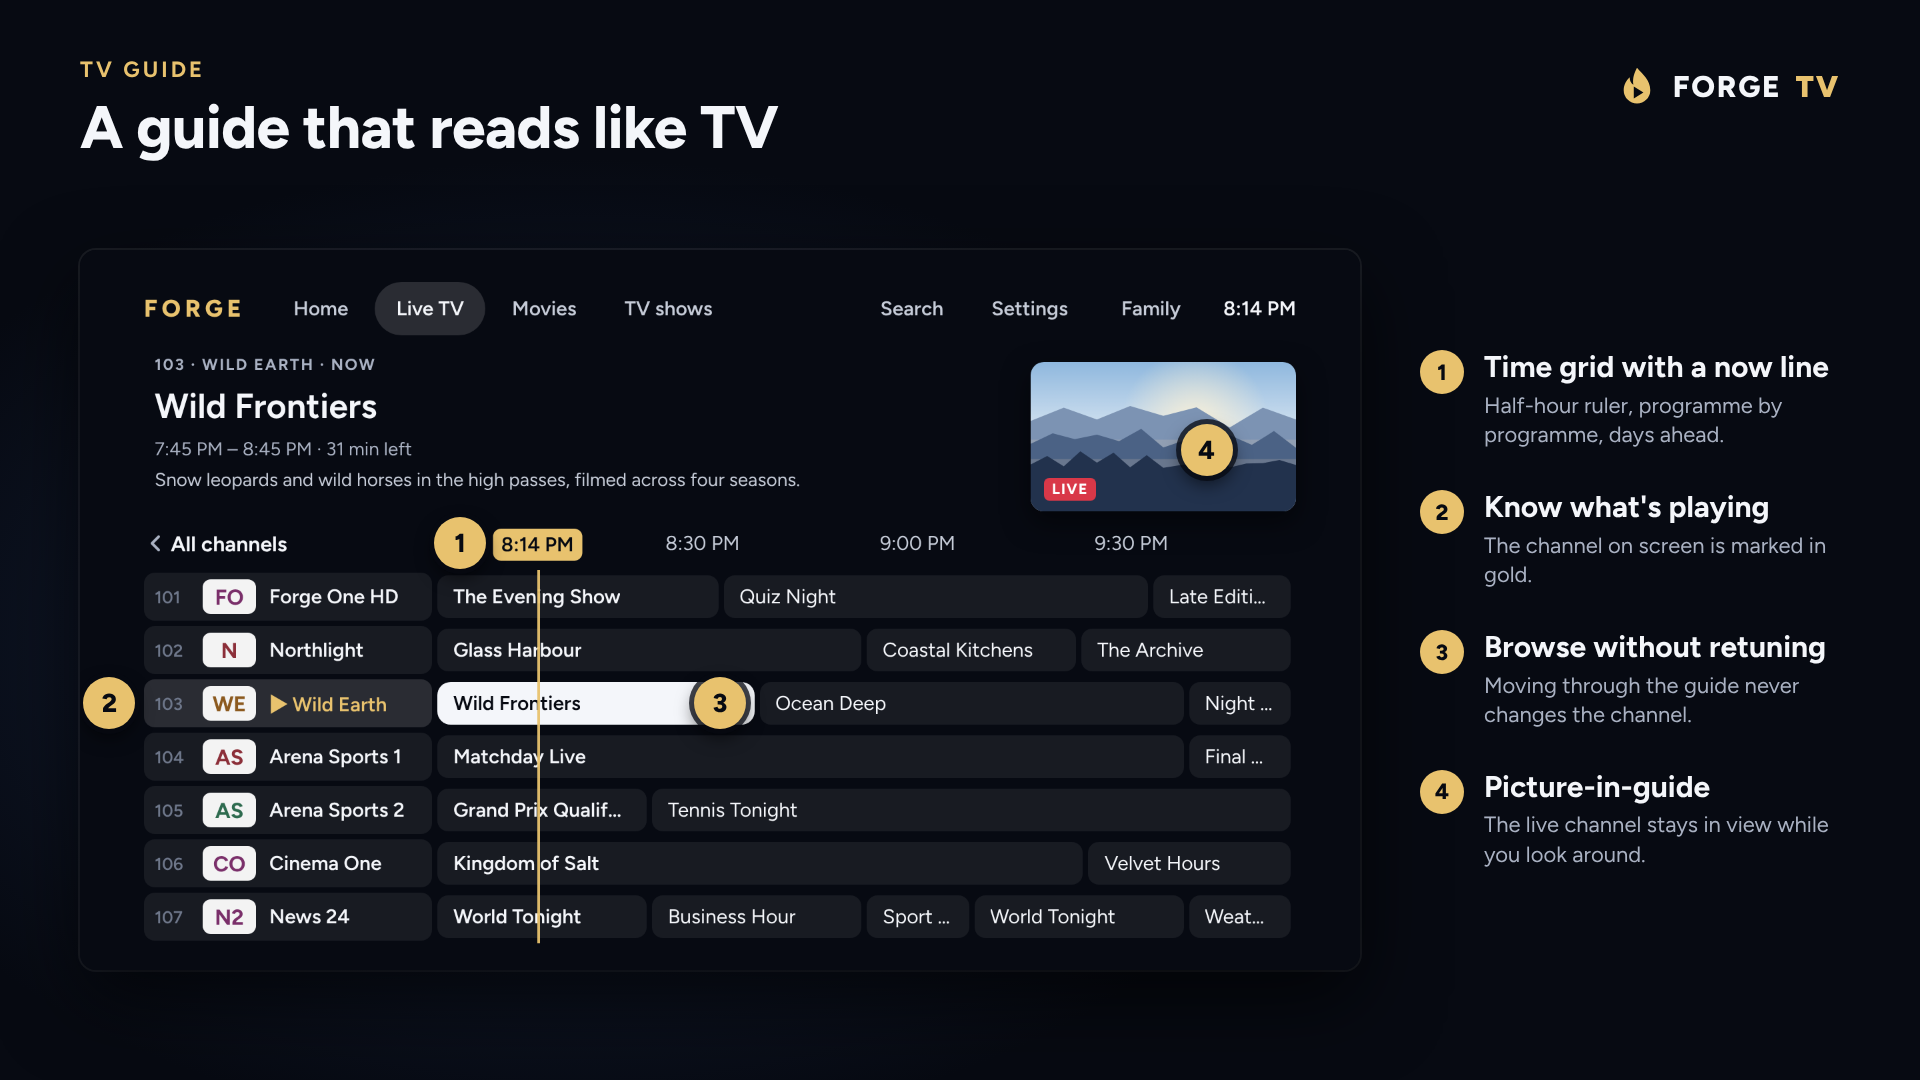
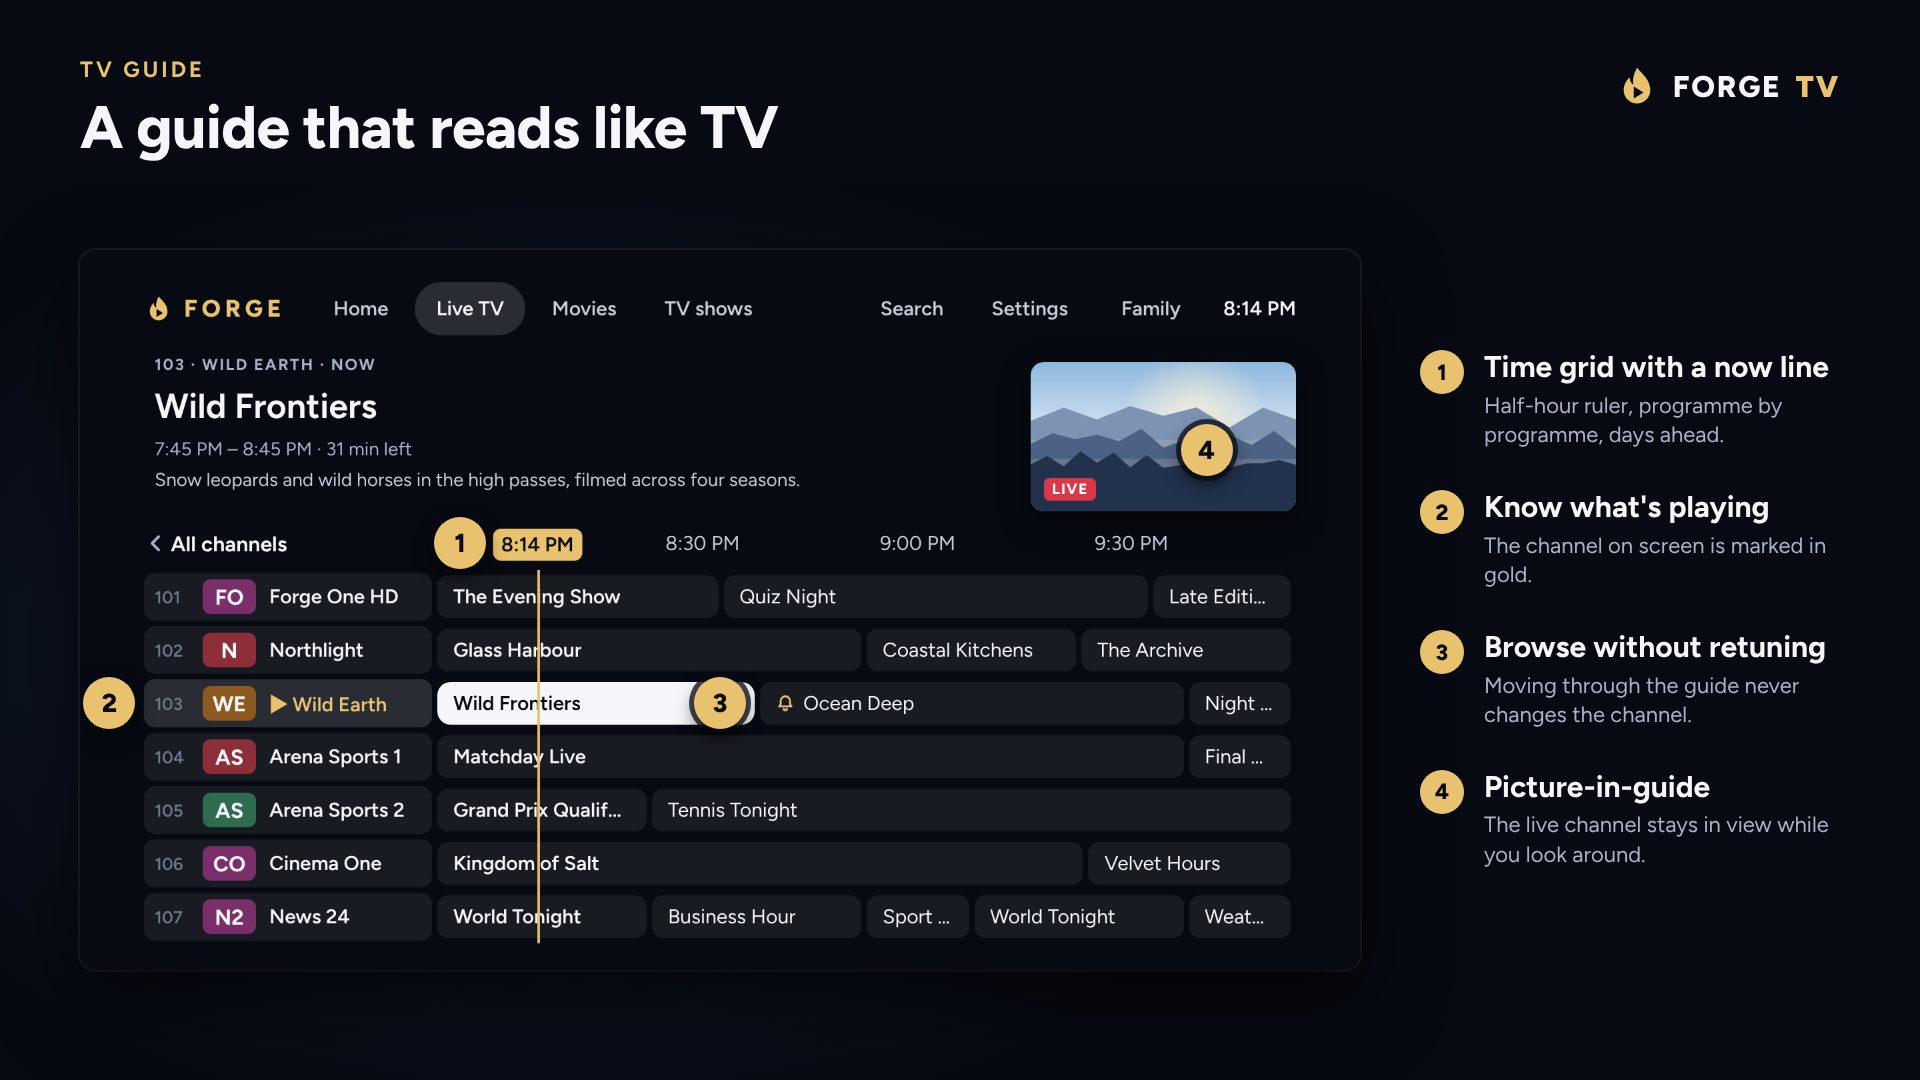
Bring the README and site up to date with v0.6.7
Adds screens for catch-up and reminders, voice search, a show's episodes,
Skip intro, Up next and Backup, and redraws the others with the current
logos, the flame in the top bar and the new Guide and Playback settings.
The feature lists cover what is in v0.6.7: catch-up, Start over and
reminders, voice search, guide time offset, Skip intro and Up next,
TVmaze and Wikipedia synopses, widescreen episode tiles, the compact
sports scoreboard, backup and restore, frame rate matching, picture size,
subtitle style and TalkBack. Both note that the screenshots are mockups.

Claude-Session: https://claude.ai/code/session_01Vb2QCyUdSXAapFs3AkaLGK

Changed region(s): [[0.0938, 0.5194, 0.1562, 0.8861], [0.0625, 0.2444, 0.4062, 0.3056], [0.4062, 0.6417, 0.4688, 0.6722]]

diff --git a/docs/index.html b/docs/index.html
@@ -108,6 +108,7 @@
   .shots figure { margin: 0; background: var(--panel); border: 1px solid var(--line); border-radius: var(--radius); overflow: hidden; }
   .shots figcaption { padding: 14px 18px; color: var(--muted); font-size: 15px; }
   details.more { margin-top: 22px; }
+  .mock { color: var(--muted); font-size: 14px; margin: 18px 0 0; }
   details.more summary {
     cursor: pointer; display: inline-block; padding: 12px 20px;
     background: var(--panel-2); border: 1px solid var(--line); border-radius: 999px;
@@ -229,22 +230,30 @@
     <div class="wrap">
       <p class="eyebrow">A look around</p>
       <h2>Everything on one remote</h2>
-      <p class="lead">Home, the guide, live sports and your movie library, designed for the big screen.</p>
+      <p class="lead">Home, the guide, catch-up, live sports and your movie library, designed for the big screen.</p>
       <div class="shots">
-        <figure><img src="images/home.png" alt="Home: pick up right where you left off" loading="lazy" width="1920" height="1080"><figcaption>Home: pick up right where you left off</figcaption></figure>
-        <figure><img src="images/live-sports.png" alt="Live sports: scores beside the match" loading="lazy" width="1920" height="1080"><figcaption>Live sports: scores beside the match</figcaption></figure>
-        <figure><img src="images/movies.png" alt="Movies and TV shows as rows of posters" loading="lazy" width="1920" height="1080"><figcaption>Movies and TV shows as rows of posters</figcaption></figure>
-        <figure><img src="images/settings-account.png" alt="Playlist details: your account at a glance" loading="lazy" width="1920" height="1080"><figcaption>Playlist details: your account at a glance</figcaption></figure>
+          <figure><img src="images/home.png" alt="Home: pick up right where you left off" loading="lazy" width="1920" height="1080"><figcaption>Home: pick up right where you left off</figcaption></figure>
+          <figure><img src="images/catch-up.png" alt="Catch-up and reminders in the guide" loading="lazy" width="1920" height="1080"><figcaption>Catch-up, Start over and reminders in the guide</figcaption></figure>
+          <figure><img src="images/voice-search.png" alt="Voice search over the guide" loading="lazy" width="1920" height="1080"><figcaption>Voice search: just say what you want</figcaption></figure>
+          <figure><img src="images/live-sports.png" alt="Live sports: scores beside the match" loading="lazy" width="1920" height="1080"><figcaption>Live sports: scores beside the match</figcaption></figure>
+          <figure><img src="images/movies.png" alt="Movies and TV shows as rows of posters" loading="lazy" width="1920" height="1080"><figcaption>Movies and TV shows as rows of posters</figcaption></figure>
+          <figure><img src="images/episodes.png" alt="A show page with widescreen episode tiles" loading="lazy" width="1920" height="1080"><figcaption>Every episode at a glance</figcaption></figure>
+          <figure><img src="images/player.png" alt="Watching an episode with Skip intro" loading="lazy" width="1920" height="1080"><figcaption>Skip intro, and buttons for every remote</figcaption></figure>
+          <figure><img src="images/up-next.png" alt="Up next over the credits" loading="lazy" width="1920" height="1080"><figcaption>Up next counts down over the credits</figcaption></figure>
       </div>
       <details class="more">
-        <summary>More settings screens</summary>
+        <summary>More screens</summary>
         <div class="shots">
+          <figure><img src="images/guide.png" alt="The TV guide: a time grid with a now line" loading="lazy" width="1920" height="1080"><figcaption>A guide that reads like TV</figcaption></figure>
+          <figure><img src="images/settings-backup.png" alt="Backup: move to a new TV in minutes" loading="lazy" width="1920" height="1080"><figcaption>Backup and restore in one file</figcaption></figure>
           <figure><img src="images/settings-playlists.png" alt="Settings: bring your own playlists" loading="lazy" width="1920" height="1080"><figcaption>Bring your own playlists</figcaption></figure>
-          <figure><img src="images/settings-guide.png" alt="Guide settings: grid or Now and next" loading="lazy" width="1920" height="1080"><figcaption>Guide: grid or Now and next</figcaption></figure>
-          <figure><img src="images/settings-playback.png" alt="Playback: tuned for fast channel changes" loading="lazy" width="1920" height="1080"><figcaption>Playback tuned for fast channel changes</figcaption></figure>
+          <figure><img src="images/settings-account.png" alt="Playlist details: your account at a glance" loading="lazy" width="1920" height="1080"><figcaption>Your account at a glance</figcaption></figure>
+          <figure><img src="images/settings-guide.png" alt="Guide settings: grid or Now and next, and a time offset" loading="lazy" width="1920" height="1080"><figcaption>Guide style and time offset</figcaption></figure>
+          <figure><img src="images/settings-playback.png" alt="Playback: buffer, frame rate matching and picture size" loading="lazy" width="1920" height="1080"><figcaption>Playback tuned for fast channel changes</figcaption></figure>
           <figure><img src="images/settings-sports.png" alt="Sports settings: one switch for the sports screen" loading="lazy" width="1920" height="1080"><figcaption>One switch for the sports screen</figcaption></figure>
         </div>
       </details>
+      <p class="mock">These are mockups drawn to match the app's layout, with made-up channels, programmes and titles. They are not captures from a TV.</p>
     </div>
   </section>
 
@@ -260,8 +269,18 @@
           <ul>
             <li>Time-grid guide with a now line, or Now and next.</li>
             <li>Categories, favourites, recently watched and search.</li>
-            <li>XMLTV listings, refreshed in the background.</li>
+            <li>Voice search from the remote's microphone key.</li>
+            <li>A time offset for guides in the wrong time zone.</li>
             <li>Rename, hide, reorder and lock channels.</li>
+          </ul>
+        </div>
+        <div class="feature">
+          <div class="ico" aria-hidden="true">⏪</div>
+          <h3>Catch-up and reminders</h3>
+          <ul>
+            <li>Watch programmes that have already been on, where your provider keeps an archive.</li>
+            <li>Start over the programme that's on now.</li>
+            <li>Remind me prompts you when a programme starts.</li>
           </ul>
         </div>
         <div class="feature">
@@ -270,8 +289,8 @@
           <ul>
             <li>Live scores and scorers beside the match.</li>
             <li>Match statistics along the bottom.</li>
+            <li>Detailed or Compact scoreboard, and browse other matches.</li>
             <li>Score delay so results don't spoil the stream.</li>
-            <li>Football, basketball, NFL, hockey, rugby, cricket and more.</li>
           </ul>
         </div>
         <div class="feature">
@@ -279,9 +298,9 @@
           <h3>Movies and TV shows</h3>
           <ul>
             <li>Rows of posters: new, top rated and every category.</li>
-            <li>Continue watching, resume or start over.</li>
-            <li>Next episode plays automatically.</li>
-            <li>Audio and subtitle tracks.</li>
+            <li>Episodes as widescreen stills, with progress.</li>
+            <li>Synopses filled in from TVmaze or Wikipedia.</li>
+            <li>Skip intro, and Up next over the credits.</li>
           </ul>
         </div>
         <div class="feature">
@@ -294,12 +313,30 @@
           </ul>
         </div>
         <div class="feature">
+          <div class="ico" aria-hidden="true">💾</div>
+          <h3>Backup and restore</h3>
+          <ul>
+            <li>Playlists, settings, favourites and profiles in one file.</li>
+            <li>Restore on this TV or a new one.</li>
+            <li>From a USB stick, a cloud drive or your phone.</li>
+          </ul>
+        </div>
+        <div class="feature">
+          <div class="ico" aria-hidden="true">⚡</div>
+          <h3>Playback that keeps going</h3>
+          <ul>
+            <li>Fast channel changes, with a choice of start-up buffer.</li>
+            <li>Reconnects by itself when a stream drops.</li>
+            <li>Match frame rate, picture size and subtitle style.</li>
+          </ul>
+        </div>
+        <div class="feature">
           <div class="ico" aria-hidden="true">🖐</div>
-          <h3>Touch, mouse and VR</h3>
+          <h3>Touch, mouse, VR and TalkBack</h3>
           <ul>
             <li>Swipe to change channel, brightness and volume.</li>
-            <li>Pinch to fill the screen.</li>
             <li>Runs on Meta Quest, Android XR and Pico headsets.</li>
+            <li>TalkBack reads the guide as you move through it.</li>
           </ul>
         </div>
         <div class="feature">

diff --git a/README.md b/README.md
@@ -26,7 +26,10 @@
 | | |
 |---|---|
 | ![Home: pick up right where you left off](docs/images/home.png) | ![TV guide: a time grid with a now line](docs/images/guide.png) |
+| ![Catch-up and reminders: watch what you missed](docs/images/catch-up.png) | ![Voice search: just say what you want](docs/images/voice-search.png) |
 | ![Live sports: scores beside the match](docs/images/live-sports.png) | ![Movies and TV shows as rows of posters](docs/images/movies.png) |
+| ![TV shows: every episode at a glance](docs/images/episodes.png) | ![Watching an episode: Skip intro and the banner's buttons](docs/images/player.png) |
+| ![Up next: the next episode over the credits](docs/images/up-next.png) | ![Backup: move to a new TV in minutes](docs/images/settings-backup.png) |
 
 <details>
 <summary><b>Settings screenshots</b></summary>
@@ -34,19 +37,28 @@
 | | |
 |---|---|
 | ![Settings: bring your own playlists](docs/images/settings-playlists.png) | ![Playlist details: your account at a glance](docs/images/settings-account.png) |
-| ![Guide settings: grid or Now and next](docs/images/settings-guide.png) | ![Playback: tuned for fast channel changes](docs/images/settings-playback.png) |
+| ![Guide settings: grid or Now and next, and a time offset](docs/images/settings-guide.png) | ![Playback: buffer, frame rate matching and picture size](docs/images/settings-playback.png) |
 | ![Sports settings: one switch for the sports screen](docs/images/settings-sports.png) | |
 
 </details>
+
+<sub>The screenshots are mockups drawn to match the app's layout, with made-up channels, programmes and titles. They are not captures from a TV.</sub>
 
 ## Features
 
 ### 📺 Live TV and guide
 - Time-grid guide with a "now" line, or a simpler Now and next view.
 - Categories, favourites, recently watched, and channel and programme search.
-- Programme listings from your playlist's XMLTV guide, refreshed in the background.
+- **Voice search:** press the microphone key on the remote and say a channel or programme.
+- Programme listings from your playlist's XMLTV guide, refreshed in the background. A **guide time offset** fixes listings that are in the wrong time zone.
 - Number keys, Channel ±, Last channel and an info banner, just like a normal TV.
 - Rename, hide, reorder and lock channels and categories, and keep those changes when the playlist refreshes.
+- Channel logos sit straight on the dark guide, with no white plate behind them.
+
+### ⏪ Catch-up and reminders
+- **Catch-up:** programmes that have already been on are marked in the guide, and play from the start, on channels whose provider keeps an archive.
+- **Start over:** missed the beginning? Play the programme that's on now from the start.
+- **Reminders:** choose Remind me on a programme coming up, and the TV prompts you when it starts.
 
 ### 🏠 Home screen
 - What's on now beside a live preview, with one press to watch.
@@ -55,22 +67,31 @@
 ### ⚽ Live sports
 - When a match is on, the picture shrinks to make room for live scores, scorers and the rest of the league.
 - Match statistics along the bottom: possession, shots, corners and more.
-- **Score delay** holds results back so the scores don't spoil what you haven't seen yet. Tune it with the coloured buttons, or let Auto follow the stream.
+- A **Detailed** or **Compact** scoreboard, and you can browse the other matches for their scorers and statistics without changing channel.
+- **Score delay** holds results back so the scores don't spoil what you haven't seen yet. Tune it with the remote, or let Auto follow the stream.
 - Football across the UK, Europe and beyond, plus basketball, American football, baseball, ice hockey, rugby, tennis, golf, motor racing, cricket and more.
 
 ### 🎬 Movies and TV shows
-- Your provider's library as rows of posters: recently added, new releases, top rated and every category.
-- Details pages with synopsis, resume or start over, and the next episode playing automatically.
-- Audio and subtitle track choice, skip back 10 s and forward 30 s.
+- Your provider's library as rows of posters: recently added, new releases, top rated and every category. Rows wrap round, and each category appears once, in full.
+- Show pages lay episodes out as widescreen stills, with your progress on each.
+- When the provider has no synopsis, Forge fills one in from **TVmaze** or **Wikipedia**.
+- **Skip intro** on episodes whose intro has been timed, and **Up next** counts down to the next episode over the credits.
+- The banner shows when a title ends and what's next, with buttons to skip back 10 s, pause, skip ahead 30 s or go to the next episode.
+- Audio and subtitle tracks, and resume or start over from Continue watching.
 
 ### 📱 Phone companion
 - Pair a phone by scanning a QR code on the TV. There is no app to install; it opens in the phone's browser.
 - Add playlists, change settings, reorder favourites and show or hide categories from the phone instead of typing with the remote.
 - Pairing uses a code shown only on the TV screen, and paired phones can be unlinked at any time.
 
-### 🖐 Touch, mouse and VR
+### 💾 Backup and restore
+- One file holds your playlists and logins, settings, favourites, channel changes, profiles and Continue watching.
+- Restore it on the same TV or a new one, from a USB stick or a cloud drive, or through the phone companion.
+
+### 🖐 Touch, mouse, VR and TalkBack
 - Works on phones and tablets by touch: swipe to change channel, brightness and volume, pinch to fill the screen.
 - Runs on Meta Quest, Android XR and Pico headsets, where the controller trigger or a hand pinch acts as a tap.
+- With **TalkBack** on, the guide reads out the channel, programme and times as you move, and forms read their labels and errors.
 
 ### 👪 Profiles and parental controls
 - Profiles each keep their own favourites, recently watched and Continue watching.
@@ -78,8 +99,10 @@
 - A parental PIN locks whole categories out of the guide, search and channel changes.
 
 ### ⚡ Playback that keeps going
-- Tuned for quick channel changes, with a choice of start-up buffer (Fast, Balanced or Steady).
+- Tuned for quick channel changes, with a choice of start-up buffer (Fast, Balanced or Steady). The guide stays quick on slow TVs too.
 - A dropped stream reconnects by itself, and straight away when the network comes back.
+- **Match frame rate** switches the TV to suit the channel, such as 50 Hz broadcasts on a 60 Hz box.
+- Picture size (Fit, Zoom or Stretch) for everything or per channel, and subtitles styled your way: size, colour, background and position.
 - Playback details on screen (formats, decoder, dropped frames, buffer) for diagnosing jerky video.
 
 ## Install
